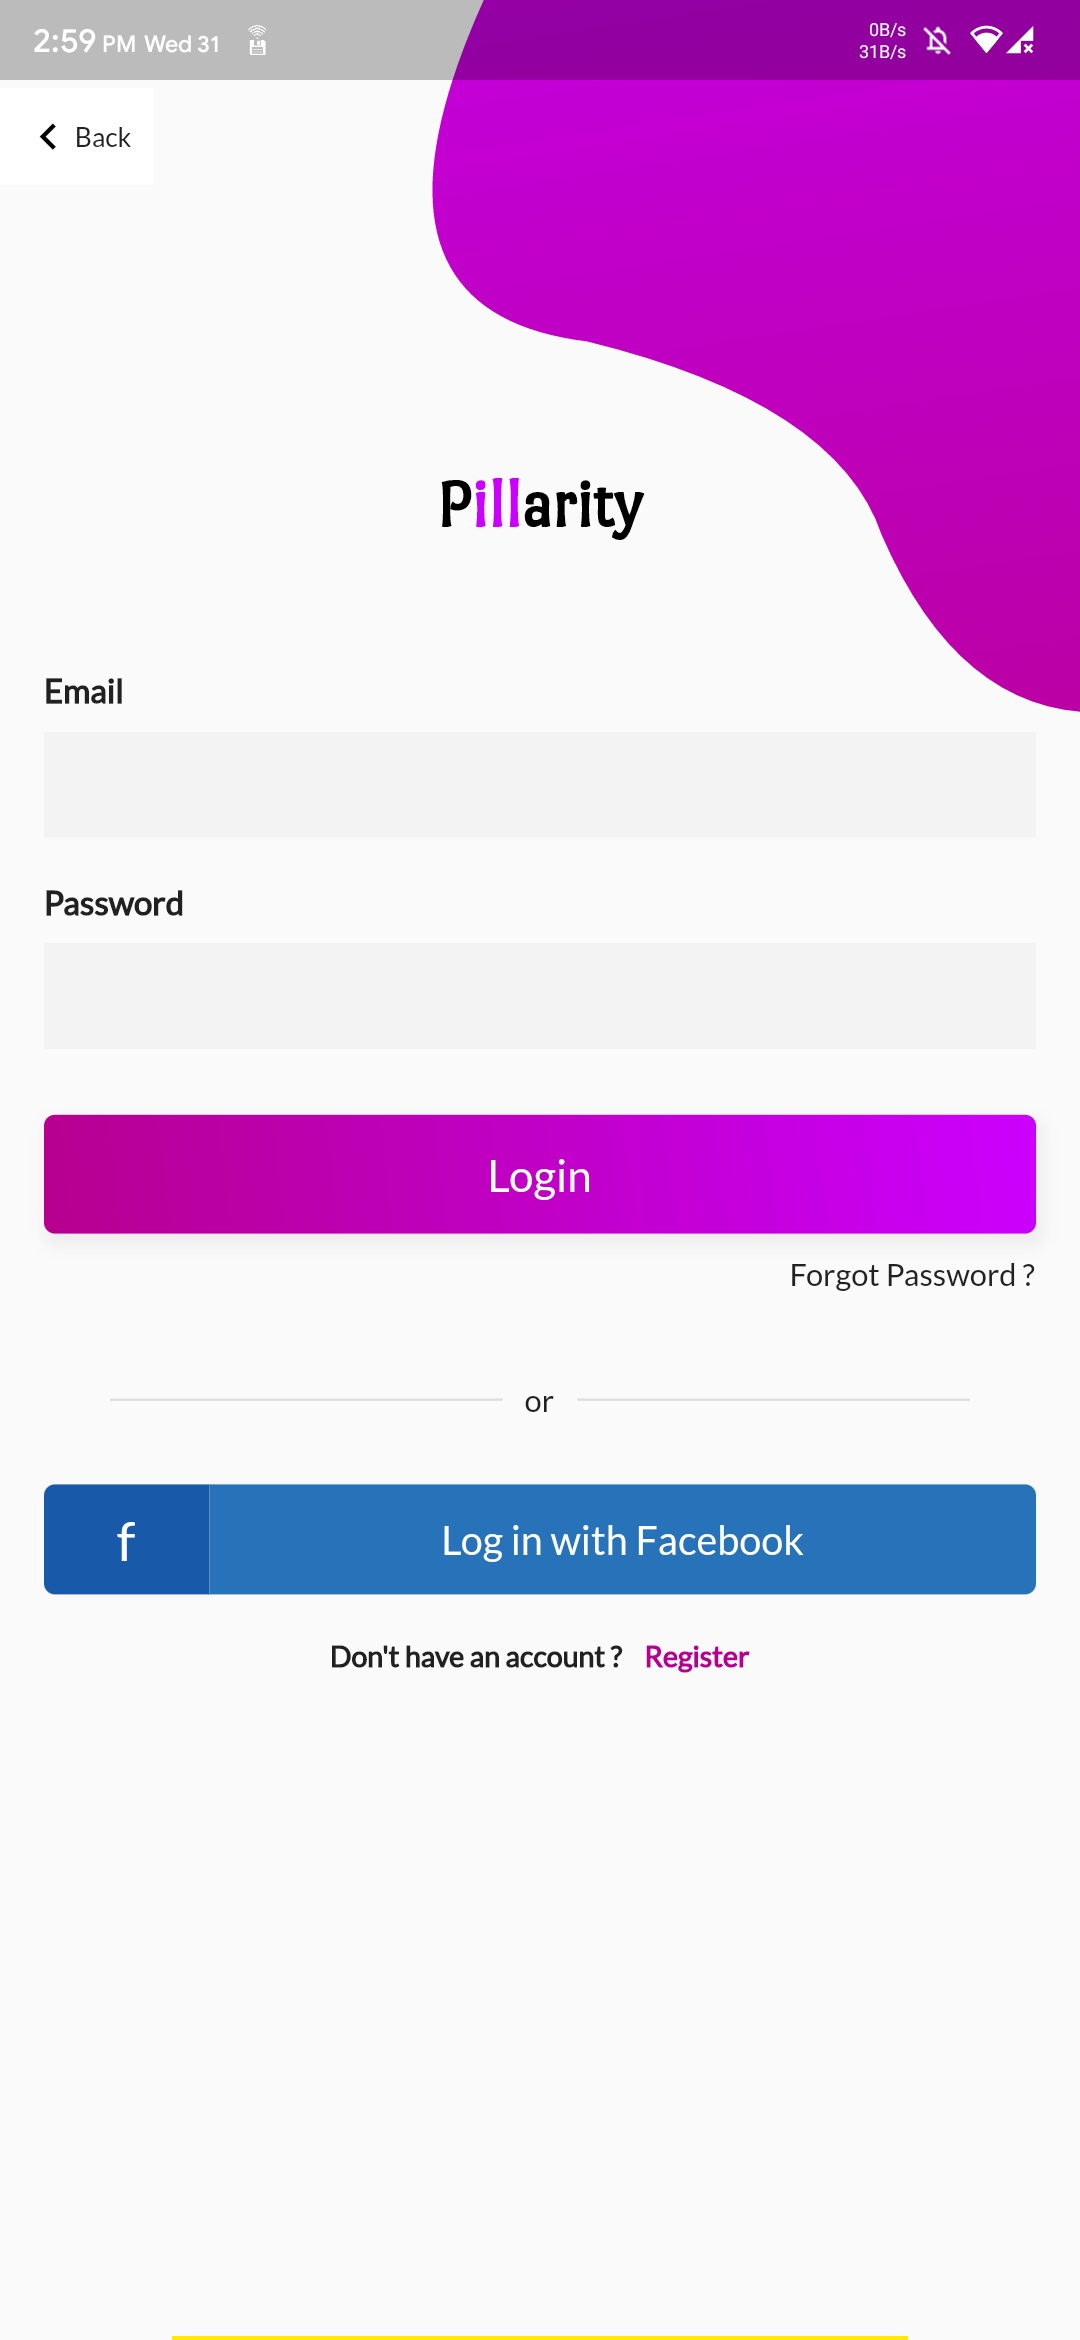
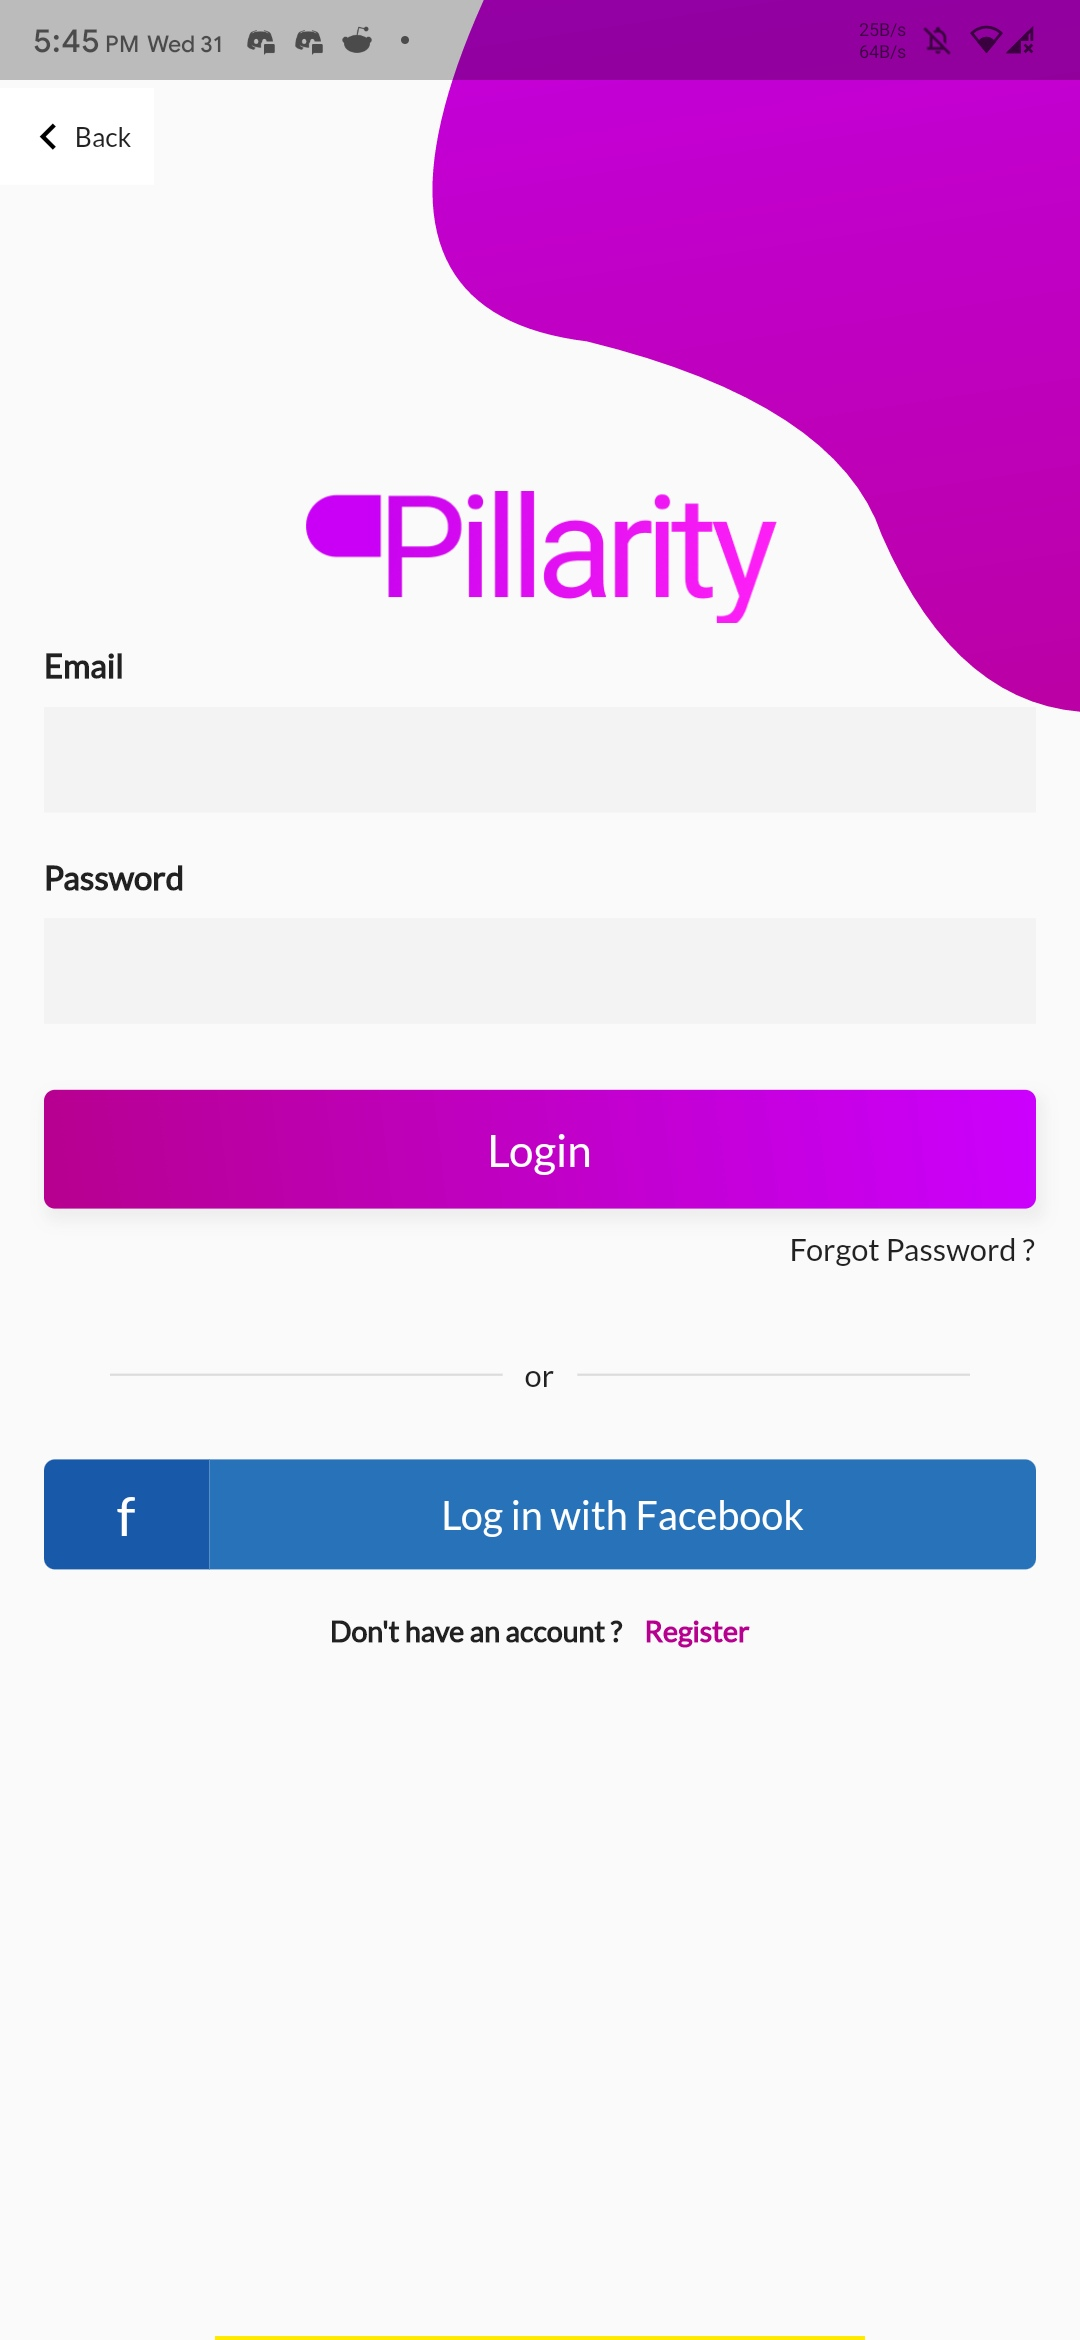
dum

diff --git a/README.md b/README.md
@@ -1,5 +1,5 @@
-# Pillarity :pill:
-
+<img src="./readme_assets/logo.jpg" alt="drawing" width="1000"/>
+<hr>
 An application for medicine and blood donation
 
 ## Description :shipit:
@@ -15,7 +15,6 @@ The application also offers a way to donate blood, where users enter their blood
 
 ## Internals :arrow_down_small:
 
-<img src="./readme_assets/login.jpg" alt="drawing" width="200"/>
 
 
 
